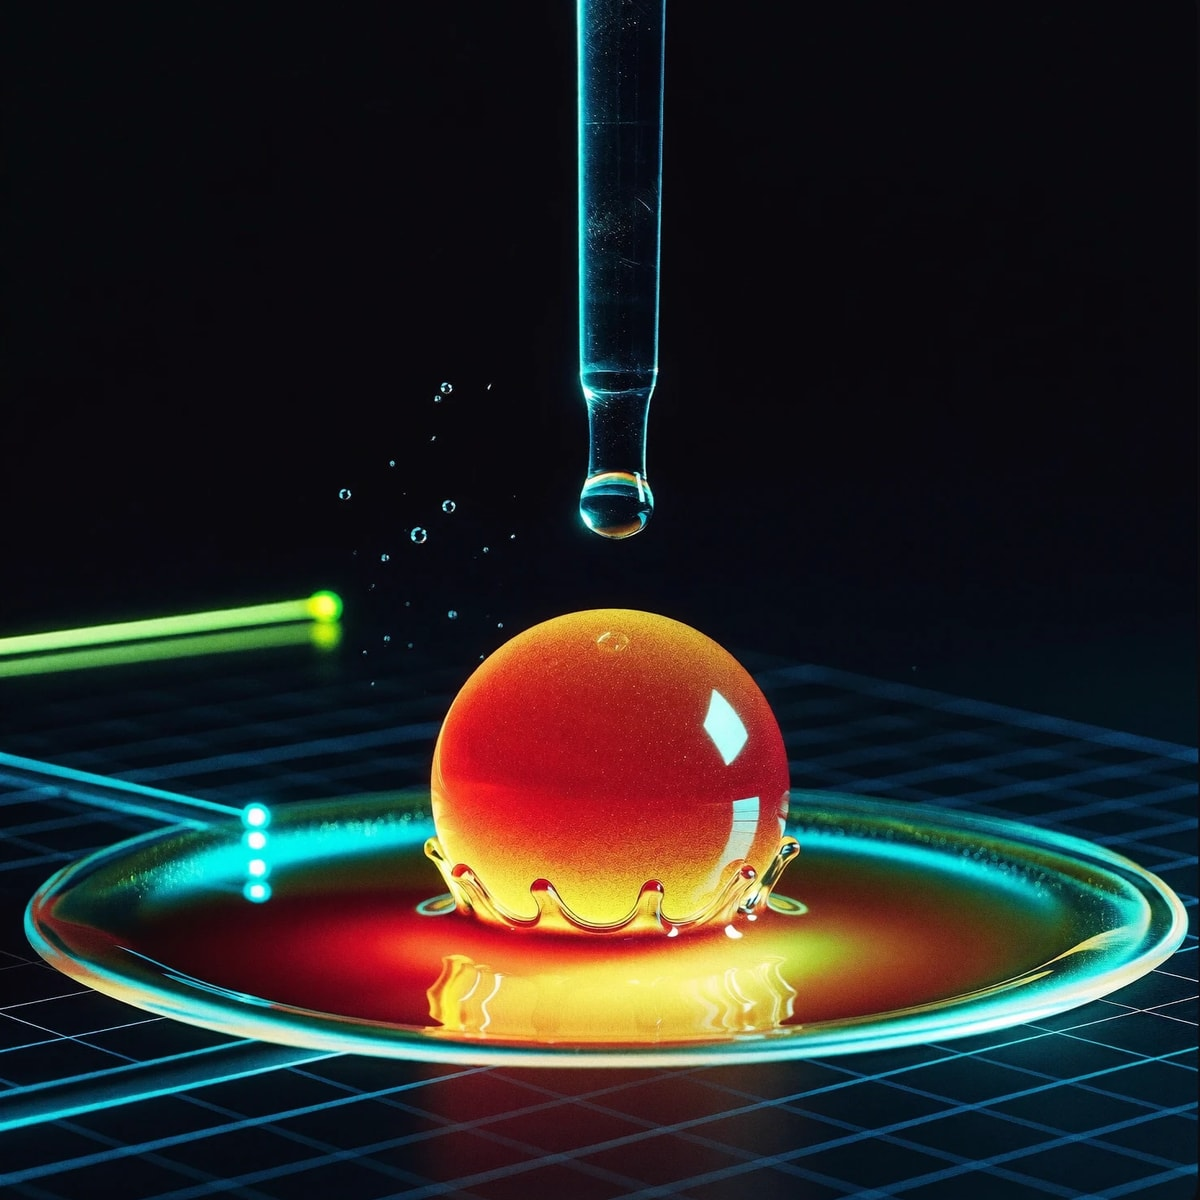
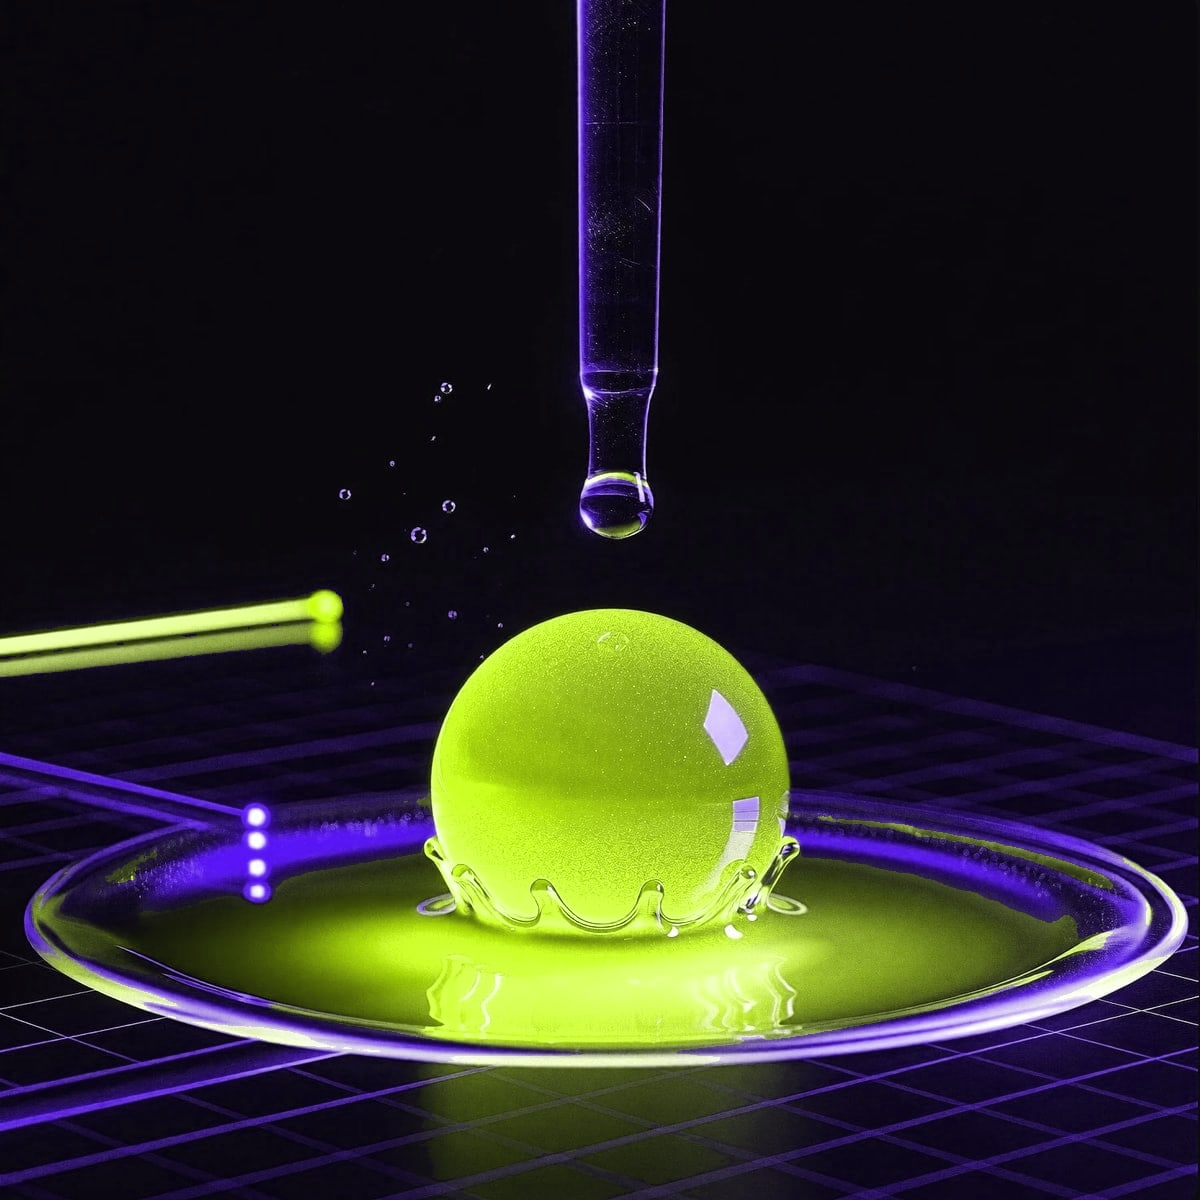
Footer gathers the jelly into one big jelly; Jelly Drop art in lime + violet, melted into its card
- new "merge" formation (jellyField.ts) on the footer: every jelly flows back into one big jelly in the
  footer's empty area — the right half below 1024px, past the contact column on wide screens, off the
  right edge on phones
- campaign art recoloured to the Jelly Match pair (warm hues → lime, cool hues → violet; lighting kept)
- the art loses its framed square: black ground lightened into the card, edges faded with a radial mask

diff --git a/components/hero/jellyField.ts b/components/hero/jellyField.ts
@@ -56,7 +56,7 @@ const N = SWARM0 + SWARM.length;
 const TOUCH = 0.35;
 
 /** Shapes the following jelly takes, by the `data-jelly` value of the section on screen. */
-export const FORMS = ["cluster", "chain", "shortlist", "hidden", "split", "ring"] as const;
+export const FORMS = ["cluster", "chain", "shortlist", "hidden", "split", "ring", "merge"] as const;
 export type Form = (typeof FORMS)[number];
 
 const clamp01 = (v: number) => Math.min(1, Math.max(0, v));
@@ -419,6 +419,26 @@ export class JellyField {
           const a = (i / CLUSTER.length) * Math.PI * 2 + t * 0.22;
           out.push([Math.cos(a) * hw * 0.92, hh * 0.15 + Math.sin(a) * hh * 0.75, b.o[2] * s * 0.5, b.r * s * 0.55 * (1 + Math.sin(t * 1.9 + b.ph) * 0.08)]);
         });
+        noDrops();
+        break;
+      }
+      case "merge": {
+        // the end of the page: every jelly flows back into one big jelly, resting where the footer is empty —
+        // the right half below 1024px (one column of links), past the contact column on wide screens,
+        // bleeding off the right edge on phones
+        const phone = this.cw < 640;
+        const lg = this.cw >= 1024;
+        const mx = phone ? hw * 0.82 : lg ? hw * 0.94 : hw * 0.45;
+        const my = phone ? -hh * 0.2 : 0;
+        const k = phone || lg ? 0.85 : 1.1;
+        CLUSTER.forEach((b) =>
+          out.push([
+            mx + b.o[0] * s * 0.34 * k + Math.sin(t * 0.5 + b.ph) * 0.04,
+            my + b.o[1] * s * 0.34 * k + Math.cos(t * 0.45 + b.ph) * 0.04,
+            b.o[2] * s * 0.3,
+            b.r * s * k * (1 + Math.sin(t * 1.4 + b.ph) * 0.04),
+          ]),
+        );
         noDrops();
         break;
       }

diff --git a/components/home/Sections.tsx b/components/home/Sections.tsx
@@ -147,9 +147,12 @@ export async function JellyDropBlock() {
             </div>
             <p className="mt-5 max-w-lg text-sm text-muted">{t("drop.microcopy")}</p>
           </div>
-          {/* Campaign card (SVG from scripts/build-brand-svgs.mjs); PNG export: public/campaign/01_Get_The_Jelly_Drop_1200.png */}
-          <div className="relative lg:col-span-5">
-            <CampaignArt name="jelly-drop" className="mx-auto max-w-md border border-line" />
+          {/* Campaign art, melted into the card: its black ground is lightened away and the edges fade out */}
+          <div className="relative lg:col-span-5 lg:-my-10 lg:-mr-10">
+            <CampaignArt
+              name="jelly-drop"
+              className="mx-auto max-w-md mix-blend-lighten [mask-image:radial-gradient(closest-side,#000_58%,transparent)] lg:max-w-none"
+            />
           </div>
         </div>
       </div>

diff --git a/components/layout/SiteFooter.tsx b/components/layout/SiteFooter.tsx
@@ -25,8 +25,9 @@ export async function SiteFooter() {
   const { companyLegalName, registeredAddress, companyRegisterId, taxId, contactEmail, contactEmailSecondary, linkedinUrl } = legalEntity;
   const companyLine = [companyLegalName, registeredAddress, companyRegisterId, taxId];
 
+  // data-jelly: on the home page the following jelly gathers into one big jelly here (jellyField.ts)
   return (
-    <footer className="relative border-t border-line">
+    <footer data-jelly="merge" className="relative border-t border-line">
       <div className="container-jl grid gap-14 py-16 lg:grid-cols-12 lg:py-24">
         <div className="lg:col-span-5">
           <Wordmark className="h-8 w-auto" />
